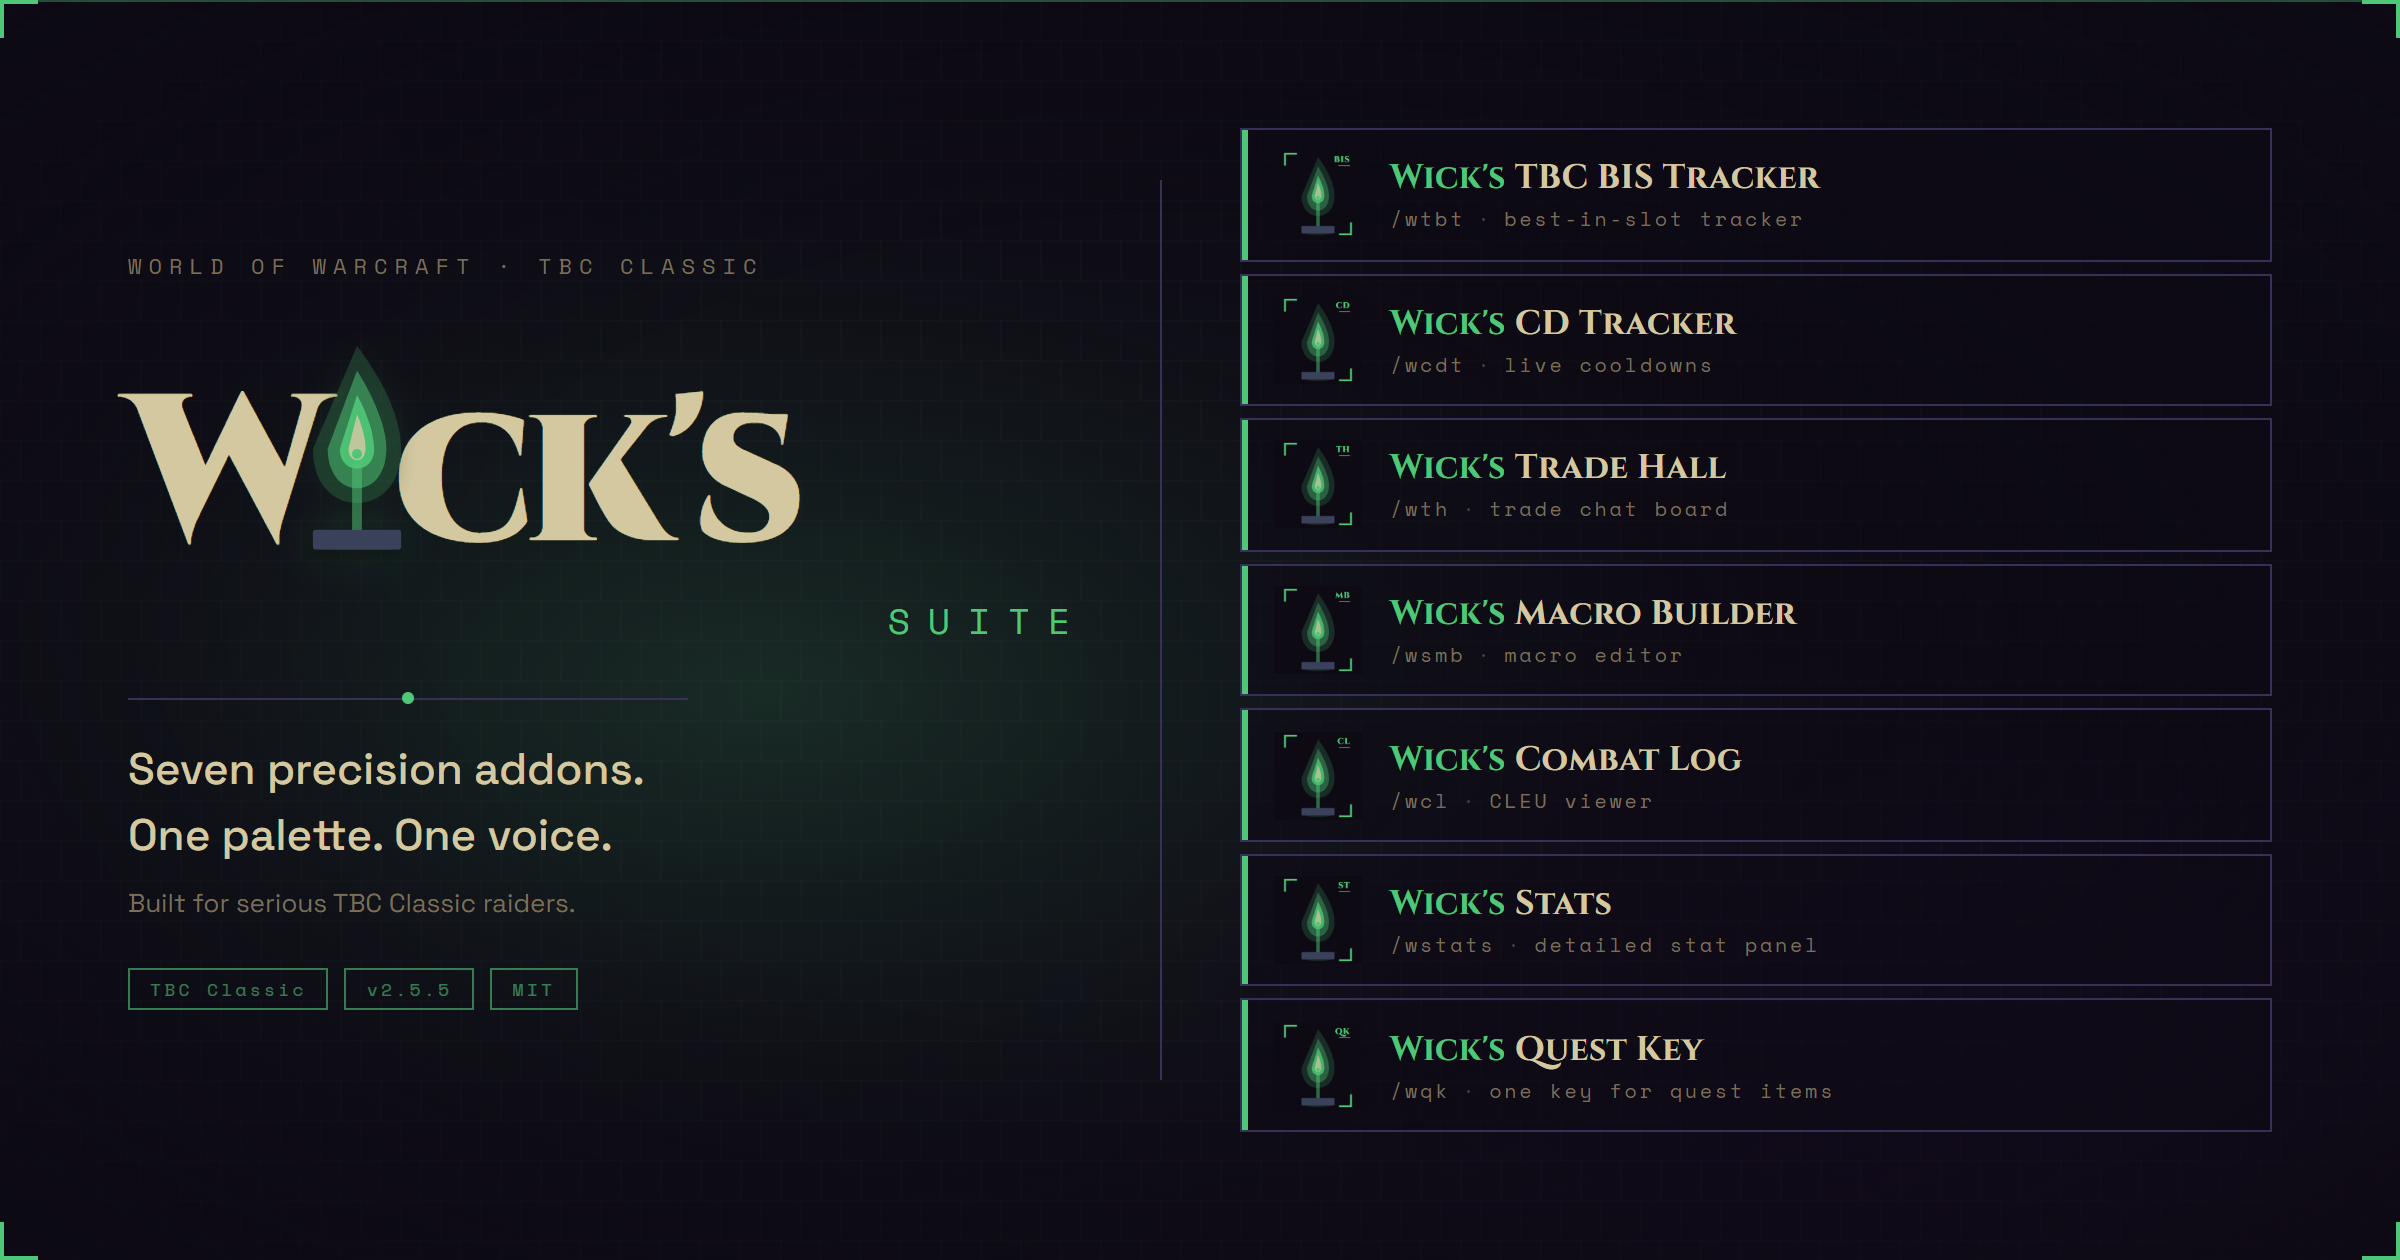
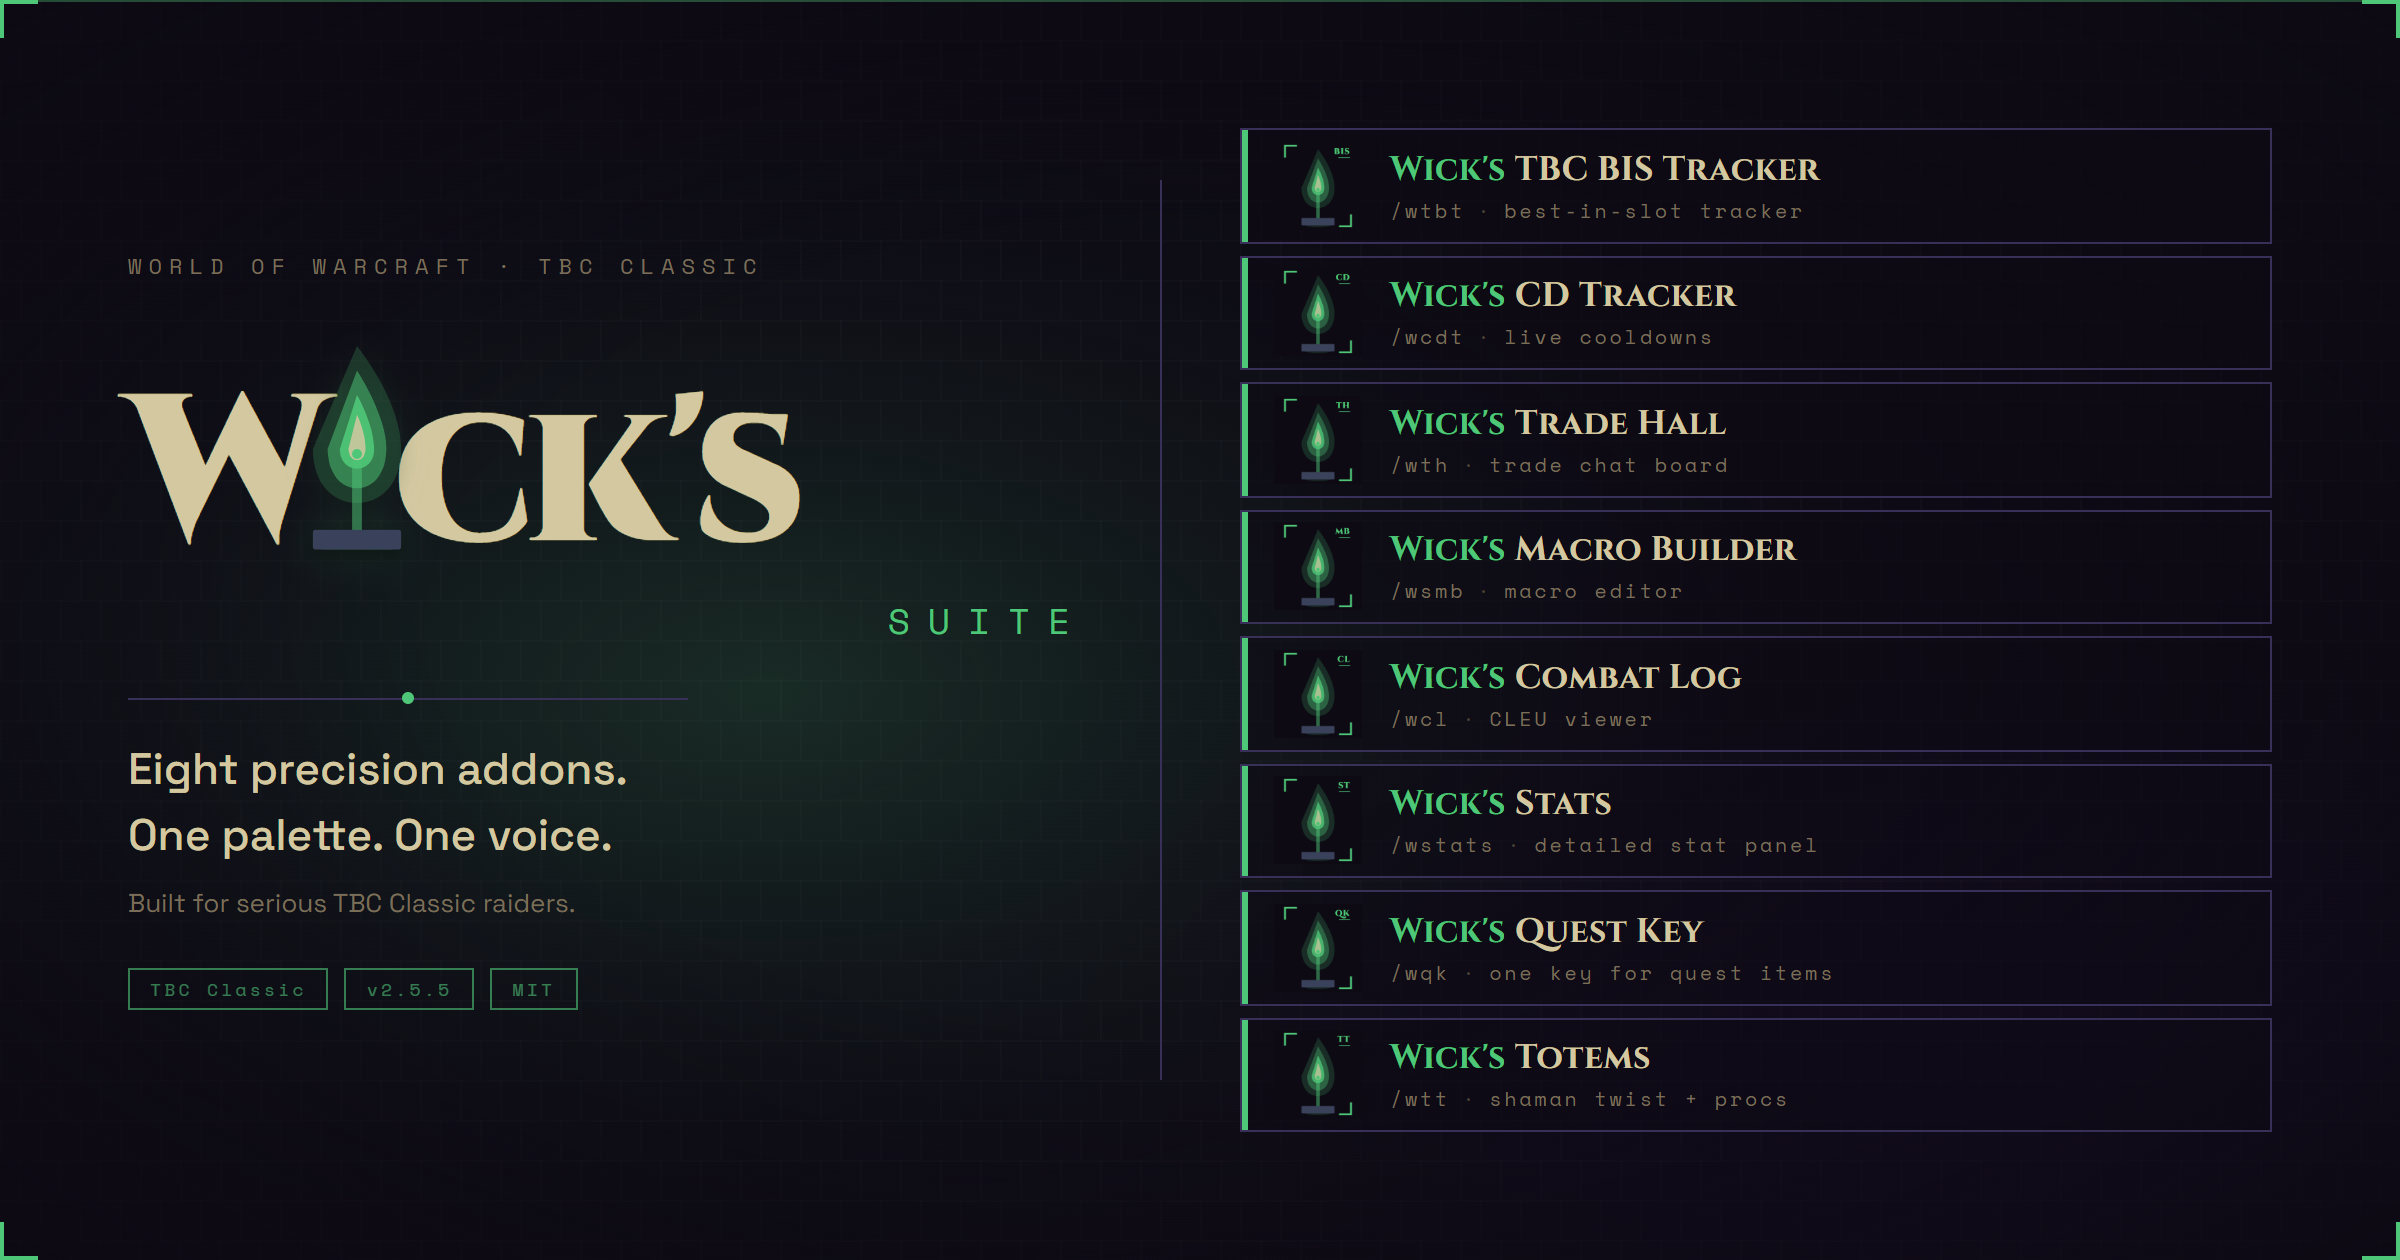
Add Wick's Totems and Things to the suite
8 addons total. Replaces Layers in the suite roster with Totems,
matches the WickSuite SUITE_ADDONS source of truth. Updated section
header from 5 to 8 addons, refreshed suite banner / thumb / social
card with the new roster, added the Totems card with New badge.

Changed region(s): [[0.5, 0.1238, 0.9375, 0.8976], [0.0625, 0.5881, 0.2812, 0.65]]

diff --git a/index.html b/index.html
@@ -4,7 +4,7 @@
 <meta charset="UTF-8">
 <meta name="viewport" content="width=device-width, initial-scale=1">
 <title>Wick's Mods — Precision Addons for TBC Classic</title>
-<meta name="description" content="Seven precision addons for TBC Classic. One palette, one voice, one chrome. Wick's TBC BIS Tracker, CD Tracker, Trade Hall, Macro Builder, Combat Log.">
+<meta name="description" content="Eight precision addons for TBC Classic. One palette, one voice, one chrome. Wick's TBC BIS Tracker, CD Tracker, Trade Hall, Macro Builder, Combat Log.">
 
 <!-- Favicon -->
 <link rel="icon" type="image/png" sizes="256x256" href="images/favicon.png">
@@ -14,11 +14,11 @@
      swap back to wicksmods.io after DNS is wired) -->
 <meta property="og:type" content="website">
 <meta property="og:title" content="Wick's Mods — Precision Addons for TBC Classic">
-<meta property="og:description" content="Seven precision addons. One locked palette. One voice. Built to be read at-a-glance during combat.">
+<meta property="og:description" content="Eight precision addons. One locked palette. One voice. Built to be read at-a-glance during combat.">
 <meta property="og:image" content="https://wicksmods.github.io/images/suite/banner-2x.png">
 <meta property="og:image:width" content="1720">
 <meta property="og:image:height" content="640">
-<meta property="og:image:alt" content="Wick's Suite — seven precision addons for TBC Classic, displayed as branded vertical cards.">
+<meta property="og:image:alt" content="Wick's Suite — eight precision addons for TBC Classic, displayed as branded vertical cards.">
 <meta property="og:url" content="https://wicksmods.github.io">
 <meta property="og:site_name" content="Wick's Mods">
 
@@ -27,9 +27,9 @@
 <meta name="twitter:site" content="@wicksmods">
 <meta name="twitter:creator" content="@wicksmods">
 <meta name="twitter:title" content="Wick's Mods — Precision Addons for TBC Classic">
-<meta name="twitter:description" content="Seven precision addons. One locked palette. One voice.">
+<meta name="twitter:description" content="Eight precision addons. One locked palette. One voice.">
 <meta name="twitter:image" content="https://wicksmods.github.io/images/suite/banner-2x.png">
-<meta name="twitter:image:alt" content="Wick's Suite — seven precision addons for TBC Classic.">
+<meta name="twitter:image:alt" content="Wick's Suite — eight precision addons for TBC Classic.">
 
 <!-- Theme color (mobile browser chrome) -->
 <meta name="theme-color" content="#0D0A14">
@@ -404,7 +404,7 @@
 
 <!-- SUITE GRID ─────────────────────────────────────────── -->
 <section class="container" id="suite">
-  <div class="section-label">The Suite · 5 Addons</div>
+  <div class="section-label">The Suite · 8 Addons</div>
 
   <div class="grid">
 
@@ -530,7 +530,6 @@
 
     <!-- Quest Key -->
     <div class="card">
-      <div class="new-badge">New</div>
       <div class="br tl"><div class="h"></div><div class="v"></div></div>
       <div class="br tr"><div class="h"></div><div class="v"></div></div>
       <div class="br bl"><div class="h"></div><div class="v"></div></div>
@@ -545,6 +544,27 @@
         <div class="card-actions">
           <a href="https://www.curseforge.com/wow/addons/wicks-quest-key" class="card-btn cf">CurseForge</a>
           <a href="https://github.com/Wicksmods/WicksQuestKey" class="card-btn">GitHub</a>
+        </div>
+      </div>
+    </div>
+
+    <!-- Totems and Things -->
+    <div class="card">
+      <div class="new-badge">New</div>
+      <div class="br tl"><div class="h"></div><div class="v"></div></div>
+      <div class="br tr"><div class="h"></div><div class="v"></div></div>
+      <div class="br bl"><div class="h"></div><div class="v"></div></div>
+      <div class="br br"><div class="h"></div><div class="v"></div></div>
+      <div class="card-thumb">
+        <img src="images/totems/thumb.png" alt="Wick's Totems and Things">
+      </div>
+      <div class="card-meta">
+        <div class="card-name"><span class="apo">Wick's</span> Totems and Things</div>
+        <div class="card-tagline">Shaman totem twist + proc tracker. Drop sets on one keybind, see who's in range, and never miss a Windfury or Stormstrike refresh.</div>
+        <div class="card-slash">/wtt</div>
+        <div class="card-actions">
+          <a href="https://www.curseforge.com/wow/addons/wicks-totems-and-things" class="card-btn cf">CurseForge</a>
+          <a href="https://github.com/Wicksmods/WicksTotemsAndThings" class="card-btn">GitHub</a>
         </div>
       </div>
     </div>

diff --git a/README.md b/README.md
@@ -1,6 +1,6 @@
 # Wick's Mods
 
-Static landing page for the **Wick suite** — five precision addons for World of Warcraft TBC Classic.
+Static landing page for the **Wick suite** — eight precision addons for World of Warcraft TBC Classic.
 
 🌐 **Live site:** [wicksmods.io](https://wicksmods.io)
 
@@ -11,6 +11,9 @@ Static landing page for the **Wick suite** — five precision addons for World o
 - [Wick's Trade Hall](https://github.com/Wicksmods/WicksTradeHall) — trade chat bulletin board
 - [Wick's Macro Builder](https://github.com/Wicksmods/WicksMacroBuilder) — chip-based macro editor
 - [Wick's Combat Log](https://github.com/Wicksmods/WicksCombatLog) — raw COMBAT_LOG_EVENT_UNFILTERED viewer
+- [Wick's Stats](https://github.com/Wicksmods/WicksStats) — detailed stat panel
+- [Wick's Quest Key](https://github.com/Wicksmods/WicksQuestKey) — one bind for active quest items
+- [Wick's Totems and Things](https://github.com/Wicksmods/WicksTotemsAndThings) — shaman totem twist + proc tracker
 
 Brand assets and the design system live in [WickSuite](https://github.com/Wicksmods/WickSuite).
 
